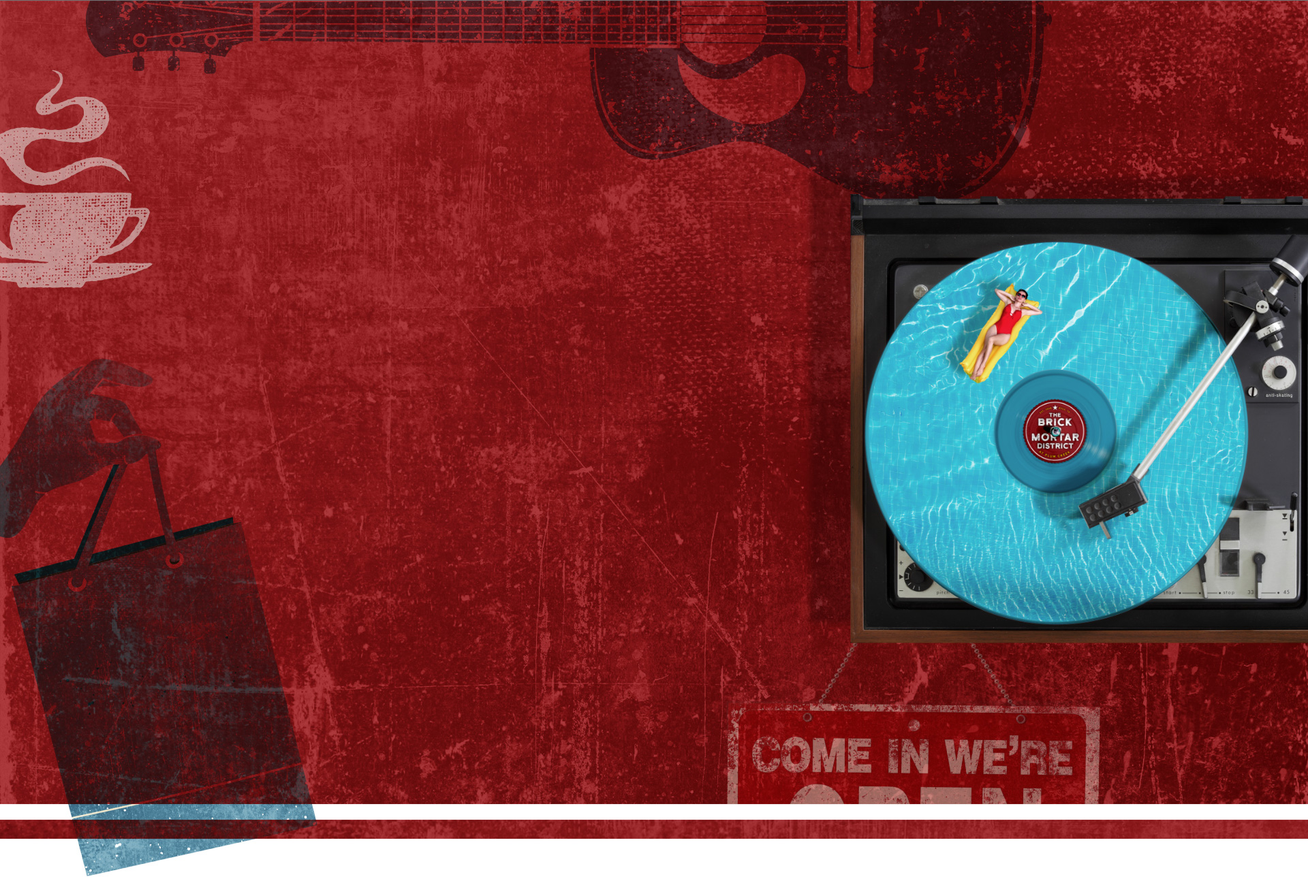
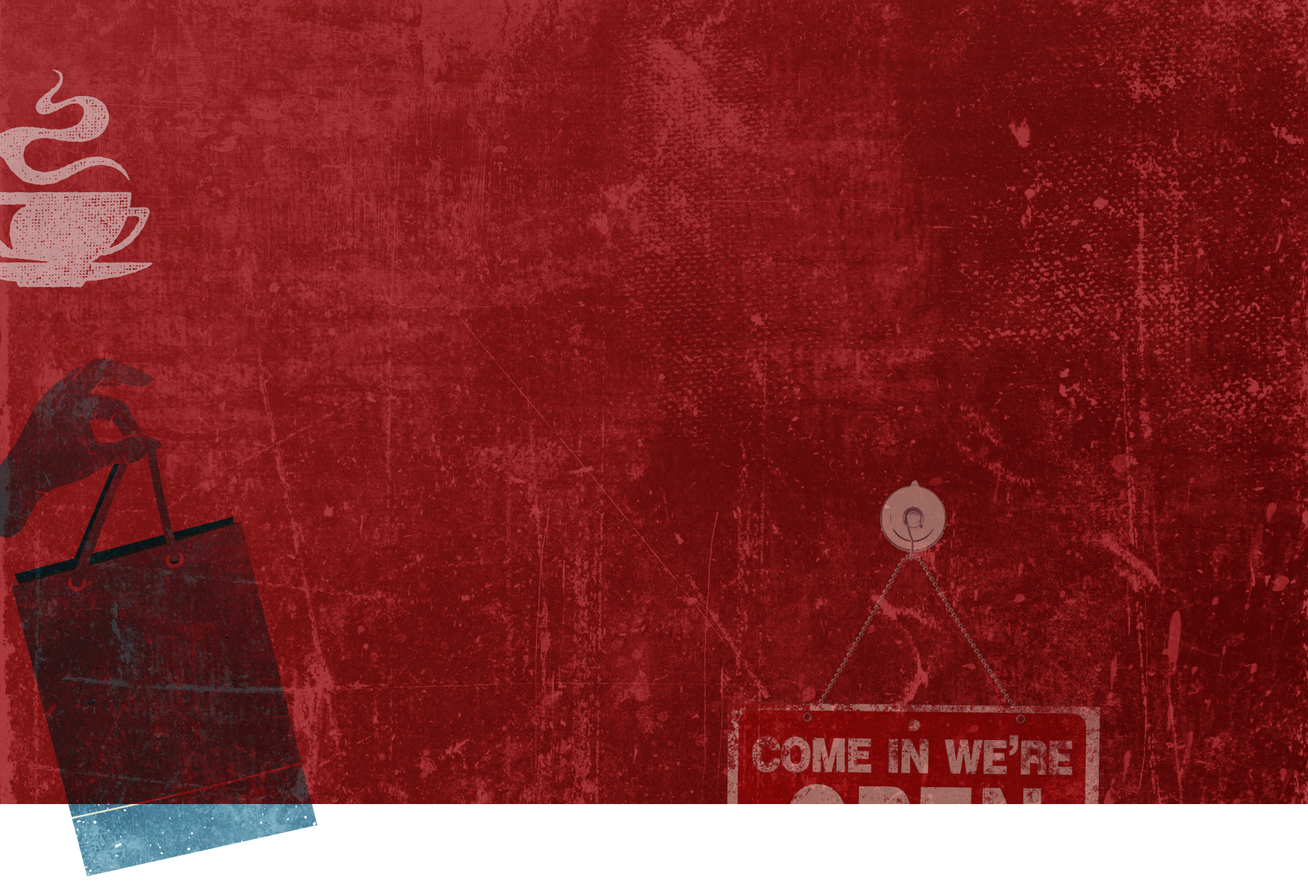
adding animations, more to the mix section breakout, added missing slidebars

diff --git a/assets/styles.scss b/assets/styles.scss
@@ -24,7 +24,7 @@
   background-position: center center;
   background-size: 100% auto;
   background-repeat: no-repeat;
-
+  min-height: 50vw;
   background-image:url('{{ site.data.hero_image.hero_image }}');
   @include for-small {
     background-image:url('{{ site.data.hero_image.hero_image_mobile }}');
@@ -41,6 +41,8 @@
 
 // More to the Mix 
 .mm-bg {
+  position: relative;
+  padding-bottom: 5vw;
   @include for-small {
     background-image:url('{{ 'assets/home/moremixmobile.jpg' | relative_url }}');
   }
@@ -50,21 +52,55 @@
     background-image:url('{{ 'assets/home/moremix.jpg' | relative_url }}');
     background-size: 100% auto;
   }
-  
-}
-.mm-content {
-  @include for-small {
-    grid-column-start: 2;
-    grid-column-end: 12;
-    padding-top: 40px;
-    padding-bottom: 20px;
+  .mm-content {
+    z-index: 2;
+    @include for-small {
+      grid-column-start: 2;
+      grid-column-end: 14;
+      padding-top: 40px;
+      padding-bottom: 20px;
+      text-align: center;
+    }
+    @include for-med-up {
+      grid-column-start: 2;
+      grid-column-end: 8;
+      padding-top: 40px;
+      padding-bottom: 40px;
+    }
+    
   }
-  @include for-med-up {
-    grid-column-start: 2;
-    grid-column-end: 8;
+  .mm-images {
+    z-index: 2;
+    @include for-small {
+      grid-column-start: 2;
+      grid-column-end: 14;
+    }
+    @include for-med-up {
+      grid-column-start: 8;
+      grid-column-end: 15;
+      //transform: translateY(-215px);
+      img {
+        transform: scale(1.3);
+      }
+    }
   }
-  
+  .guitar {
+    position: absolute;
+    width: 70vw;
+    left: 10vw;
+    top: 0;
+    mix-blend-mode: multiply;
+  }
 }
+.slide-holder.more {
+  margin-top: calc((100vw * 0.01354166667) - (5.6vw));
+  margin-bottom: 6vw;
+}
+.slidebar.more {
+  background-image:url('{{ 'assets/branding/bar_red.png' | relative_url }}');
+  right: 0;
+}
+
 // charm
 .charm-bg {
   @include for-small {
@@ -98,7 +134,7 @@
       @include for-med-up {
         position: absolute;
         top: -13vw;
-        left: -10vw;
+        left: -9vw;
         z-index: 1;
         width: 32vw;
       }  
@@ -136,6 +172,10 @@
     } 
   }
 }
+.slidebar.charm {
+  background-image:url('{{ 'assets/branding/bar_biz.png' | relative_url }}');
+  left: 14.286%;
+}
 
 // hats
 .hats-bg {
@@ -151,8 +191,24 @@
     margin-top: 215px;
   }
   background-repeat: no-repeat;
+  .bigword.live {
+    bottom: -60px;
+    left: 5%;
+    color: #304251;
+    z-index: 1;
+    mix-blend-mode: multiply;
+    @include for-med-up {
+      font-size: 17rem;
+      opacity: .38;
+    }
+    @include for-small {
+      opacity: .4;
+      font-size: 8rem;
+    }
+  }
 }
 .hats-content {
+  z-index: 2;
   @include for-small {
     text-align: center;
     padding-bottom: 30px;
@@ -169,6 +225,7 @@
   }
 }
 .hats-images {
+  z-index: 2;
   @include for-small {
     grid-column-start: 1;
     grid-column-end: 15;
@@ -180,6 +237,10 @@
     grid-column-end: 15;
     transform: translateY(-215px);
   }
+}
+.slidebar.hats {
+  background-image:url('{{ 'assets/branding/bar_red.png' | relative_url }}');
+  right: 14.286%;
 }
 
 //amenities / life with benefits
@@ -197,13 +258,13 @@
   }
   position: relative;
   .bigword.enjoy {
-    bottom: 5vw;
+    bottom: -5rem;
     opacity: .1;
     z-index: -1;
     font-size: 12rem;
     @include for-med-up {
       font-size: 22rem;
-      right: -10vw;
+      right: -40vw;
     }
     @include for-small {
       left: 40vw;
@@ -242,6 +303,7 @@
 
 // businesses welcome
 .business-bg {
+  position: relative;
   @include for-small {
     background-image:url('{{ 'assets/home/businessmobile.jpg' | relative_url }}');
   }
@@ -252,8 +314,25 @@
     background-position: right 7vw top 0;
     background-repeat: no-repeat;
   }
+  .bigword.work {
+    color: #304251;
+    z-index: 1;
+    @include for-med-up {
+      font-size: 22rem;
+      opacity: .38;
+      bottom: -5rem;
+      left: -10vw;
+    }
+    @include for-small {
+      opacity: .4;
+      bottom: 0;
+      right: -10vw;
+      font-size: 8rem;
+    }
+  }
 }
 .business-content {
+  z-index: 2;
   @include for-small {
     grid-column-start: 2;
     grid-column-end: 14;
@@ -269,6 +348,7 @@
 .business-images {
   grid-column-start: 2;
   grid-column-end: 14;
+  z-index: 2;
   @include for-med-up {
     grid-column-start: 9;
     grid-column-end: 15;
@@ -383,13 +463,13 @@
   writing-mode: vertical-rl;
   text-orientation: mixed;
   z-index: 1;
-  mix-blend-mode: color-burn;
+  mix-blend-mode: multiply;
   @include for-med-up {
     font-size: 14rem;
     opacity: .38;
   }
   @include for-small {
-    opacity: .2;
+    opacity: .3;
     font-size: 8rem;
   }
 }
@@ -553,6 +633,7 @@
 //interest form
 .interest-bg {
   background-repeat: no-repeat;
+  position: relative;
   @include for-small {
     background-image:url('{{ 'assets/home/interestbg.jpg' | relative_url }}');
     padding-top: 50px;
@@ -565,10 +646,26 @@
     background-position: left 07.291666667vw top 0px; //140px offset @ 1920px wide = 140/1920 is ratio 
     background-size: cover;
   }
+  .bigword.join {
+    top: 40%;
+    left: 12%;
+    color: #304251;
+    z-index: 1;
+    mix-blend-mode: multiply;
+    @include for-med-up {
+      font-size: 17rem;
+      opacity: .38;
+    }
+    @include for-small {
+      opacity: .4;
+      font-size: 8rem;
+    }
+  }
 }
 .interest-content {
   grid-column-start: 3;
   grid-column-end: 11;
+  z-index: 2;
   @include for-med-up {
     grid-column-start: 3;
     grid-column-end: 9;
@@ -578,6 +675,7 @@
   background-color: #881719;
   grid-column-start: 3;
   grid-column-end: 11;
+  z-index: 2;
   @include for-med-up {
     grid-column-start: 9;
     grid-column-end: 12;

diff --git a/assets/scripts.js b/assets/scripts.js
@@ -49,12 +49,12 @@ if (
 let observer = new IntersectionObserver(entries => {
   if (entries[0].boundingClientRect.y < 0) {
     document.body.classList.add("header-not-at-top");
-    console.log(entries[0].boundingClientRect.y);
-    console.log('** header minimial @ ' + Date.now().toString() + ' ** ');
+    //console.log(entries[0].boundingClientRect.y);
+    //console.log('** header minimial @ ' + Date.now().toString() + ' ** ');
   } else {
     document.body.classList.remove("header-not-at-top");
-    console.log('** header full @ ' + Date.now().toString() + ' ** ');
-    console.log(entries[0].boundingClientRect.y);
+    //console.log('** header full @ ' + Date.now().toString() + ' ** ');
+    //console.log(entries[0].boundingClientRect.y);
   }
 });
 observer.observe(document.querySelector("#topanchor"));
@@ -65,11 +65,15 @@ const animatedElements = document.querySelectorAll('.animate__animated');
 function handleIntersection(entries) {
   entries.map((entry) => {
     if (entry.isIntersecting) {
-      console.log('triggering animation for:');
-      console.log(entry.target);
-      console.log('animations:');
-      console.log(entry.target.dataset.animations);
-      entry.target.className += " " + entry.target.dataset.animations;
+      //console.log('triggering animation for:');
+      //console.log(entry.target);
+      if(entry.target.className.indexOf('hasFired') > -1) {
+          //console.log('already fired');
+      } else {
+        //console.log('animations:');
+        //console.log(entry.target.dataset.animations);
+        entry.target.className += " hasFired " + entry.target.dataset.animations;
+      }
     } else {
       //entry.target.classList.remove('visible')
       //no need to clean up - only animate once

diff --git a/_includes/home-hero_footer.html b/_includes/home-hero_footer.html
@@ -1,8 +1,8 @@
 <div class="slide-holder">
-	<div class="slidebar footer animate__animated" data-animations="animate__slideInRight animate__slower animate__delay-1s">
+	<div class="slidebar footer animate__animated" data-animations="animate__slideInRight animate__slower">
 	</div>
 </div>
 
 
-<img class="footer_hero desktop lazy" width="1920" height="878" data-src="{{ 'assets/branding/footer_img.jpg' | relative_url }}" alt="Rendering of the Brick & Mortar District at Plum Creek and the Veteran's  Park">
-<img class="footer_hero mobile lazy" width="1000" height="878" data-src="{{ 'assets/branding/footer_img_mobile.jpg' | relative_url }}" alt="Rendering of the Brick & Mortar District at Plum Creek and the Veteran's  Park">
+<img class="footer_hero desktop lazy" width="1920" height="878" data-src="{{ 'assets/branding/footer_img.jpg' | relative_url }}" alt="Rendering of the Brick & Mortar District at Plum Creek and the Veteran's Park">
+<img class="footer_hero mobile lazy" width="1000" height="878" data-src="{{ 'assets/branding/footer_img_mobile.jpg' | relative_url }}" alt="Rendering of the Brick & Mortar District at Plum Creek and the Veteran's Park">

diff --git a/_includes/home-corner_rendering.html b/_includes/home-corner_rendering.html
@@ -1,3 +1,3 @@
-<img class="corner_rendering desktop lazy" width="1927" height="788" data-src="{{ site.data.corner_renderings.corner_rendering }}" alt="Rendering of a Mixed Use Corner with ground level Retail in the Brick & Mortar District at Plum Creek">
+<img class="corner_rendering desktop lazy animate__animated" data-animations="animate__slideInUp" width="1927" height="788" data-src="{{ site.data.corner_renderings.corner_rendering }}" alt="Rendering of a Mixed Use Corner with ground level Retail in the Brick & Mortar District at Plum Creek">
 
-<img class="corner_rendering mobile lazy" width="1927" height="788" data-src="{{ site.data.corner_renderings.corner_rendering_mobile }}" alt="Rendering of a Mixed Use Corner with ground level Retail in the Brick & Mortar District at Plum Creek">
+<img class="corner_rendering mobile lazy animate__animated" data-animations="animate__slideInUp" width="1927" height="788" data-src="{{ site.data.corner_renderings.corner_rendering_mobile }}" alt="Rendering of a Mixed Use Corner with ground level Retail in the Brick & Mortar District at Plum Creek">

diff --git a/_includes/home-more_to_the_mix.html b/_includes/home-more_to_the_mix.html
@@ -1,13 +1,20 @@
 <div class="sized_section vcen mm-bg">
-	<div class="grid12">
+	<img class="guitar lazy animate__animated" data-animations="animate__slideInRight animate__slower" src="{{ 'assets/home/mm-guitar.png' | relative_url }}">
+	<div class="grid14">
 		<article class="mm-content fc-white page-width">
 			<div class="">
 				<h2 class="fs-large fup">{{ site.data.more_to_the_mix.title }}</h2>
 				<p class="ff-micro fs-body">{{ site.data.more_to_the_mix.body }}
 				</p>
 			</div>
-			<img class="mobile lazy" data-src="{{ 'assets/home/mm_record.png' | relative_url }}" alt="a woman sunbathing in a pool in the shape of a vinyl record">
+		</article>
+		<article class="mm-images">
+			<img class="lazy animate__animated" data-animations="animate__slideInRight" data-src="{{ 'assets/home/mm_record.png' | relative_url }}" alt="a woman sunbathing in a pool in the shape of a vinyl record">
 		</article>
 	</div>
 	
+</div>
+<div class="slide-holder more">
+	<div class="slidebar more animate__animated" data-animations="animate__slideInLeft animate__slower">
+	</div>
 </div>

diff --git a/_includes/home-charm.html b/_includes/home-charm.html
@@ -5,15 +5,20 @@
 				<h2 class="fs-large fup">{{ site.data.the_intersection.title }}</h2>
 				<p class="ff-micro fs-body">{{ site.data.the_intersection.body }}
 				</p>
-				<img class="charm_map lazy" data-src="{{ 'assets/home/charm_map.png' | relative_url }}" alt="a decorative map of Kyle, TX showing nearby towns">
+				<img class="charm_map lazy animate__animated" data-src="{{ 'assets/home/charm_map.png' | relative_url }}" alt="a decorative map of Kyle, TX showing nearby towns" data-animations="animate__rotateInDownLeft">
 			</div>
 		</article>
-		<span class="tower">
+		<span class="tower animate__animated" data-animations="animate__fadeInUpBig">
 			<img class="lazy" data-src="{{ 'assets/home/charm_tower.png' | relative_url }}">
 		</span>
 		<span class="people">
 			<img class="lazy" data-src="{{ 'assets/home/charm_people.jpg' | relative_url }}">
 		</span>
 
+	</div>
+</div>
+
+<div class="slide-holder">
+	<div class="slidebar charm animate__animated" data-animations="animate__slideInLeft animate__slower">
 	</div>
 </div>

diff --git a/_includes/home-hats.html b/_includes/home-hats.html
@@ -15,4 +15,10 @@
 			<img class="second lazy" data-src="{{ 'assets/home/hats2.jpg' | relative_url }}">
 		</div>
 	</div>
+	<span class="bigword live animate__animated" data-animations="animate__slideInLeft animate__slower">LIVE</span>
+</div>
+
+<div class="slide-holder">
+	<div class="slidebar hats animate__animated" data-animations="animate__slideInLeft animate__slower">
+	</div>
 </div>

diff --git a/_includes/home-business.html b/_includes/home-business.html
@@ -17,7 +17,9 @@
 			</div>
 		</div>
 	</div>
+	<span class="bigword work animate__animated" data-animations="animate__slideInLeft animate__slower">WORK</span>
 </div>
+
 <div class="slide-holder">
 	<div class="slidebar biz animate__animated" data-animations="animate__slideInRight animate__slower animate__delay-1s">
 	</div>

diff --git a/_includes/home-interest_form.html b/_includes/home-interest_form.html
@@ -49,6 +49,7 @@
 		</article>
 
 	</div>
+	<span class="bigword join animate__animated" data-animations="animate__slideInLeft animate__slower">JOIN</span>
 </div>
 <div class="slide-holder">
 	<div class="slidebar interest animate__animated" data-animations="animate__slideInLeft animate__slower">
